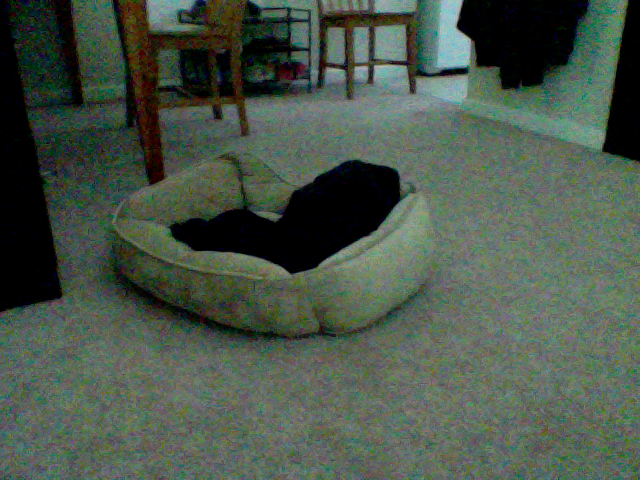
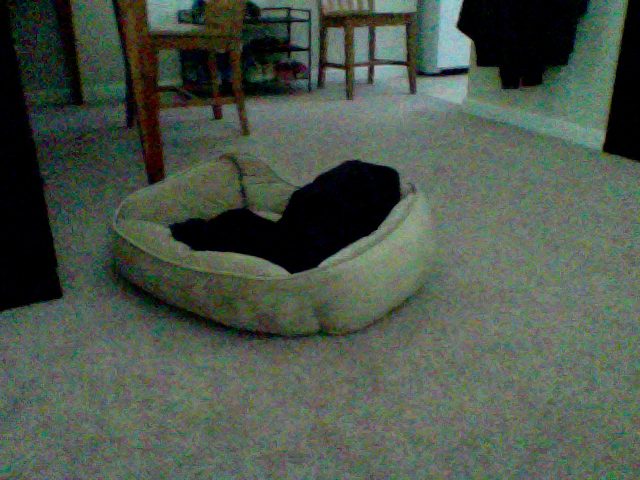
update at Month05Day09Time12:03

diff --git a/index.html b/index.html
@@ -39,7 +39,7 @@
       <!-- Example row of columns -->
       <div class="row">
         <div class="col-md-4">
-	<p>This picture was updated at Month05Day09Time12:02</p>
+	<p>This picture was updated at Month05Day09Time12:03</p>
 		<img src="4_pic.png" />
         </div>
       </div>
